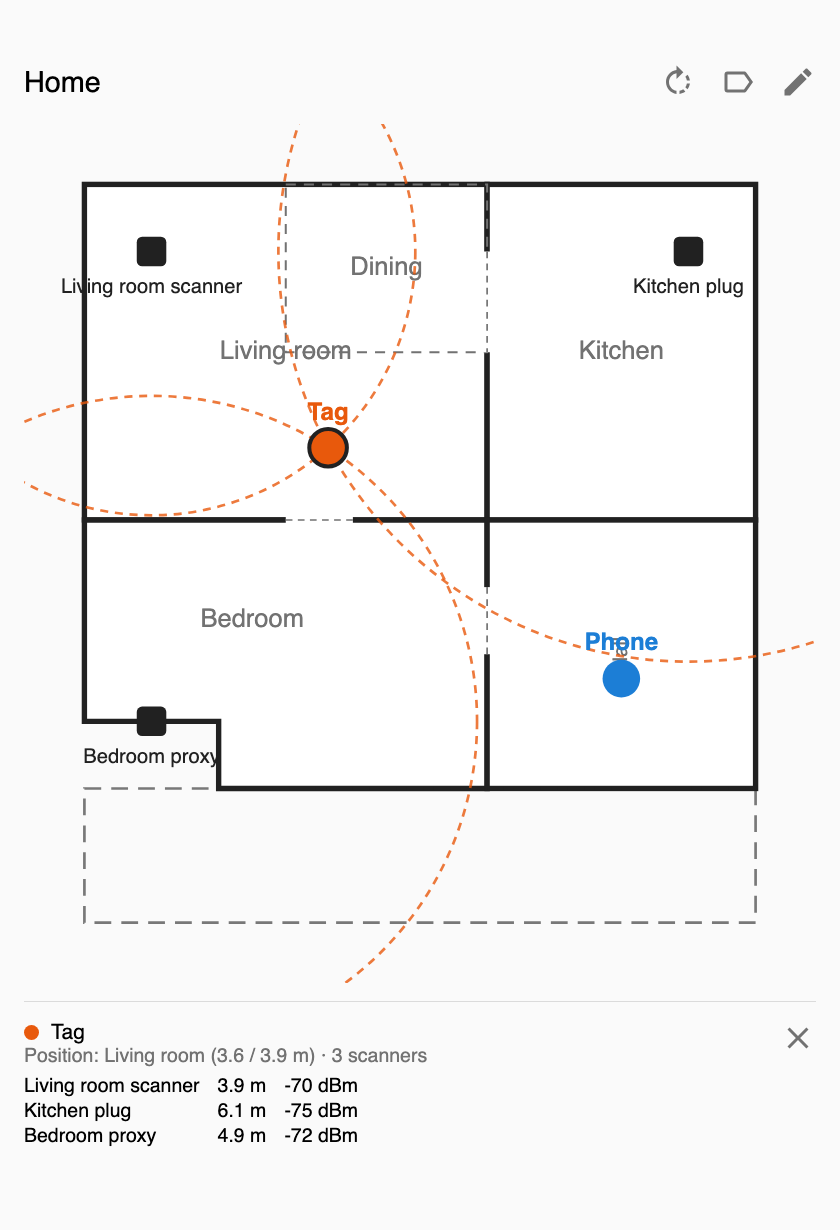
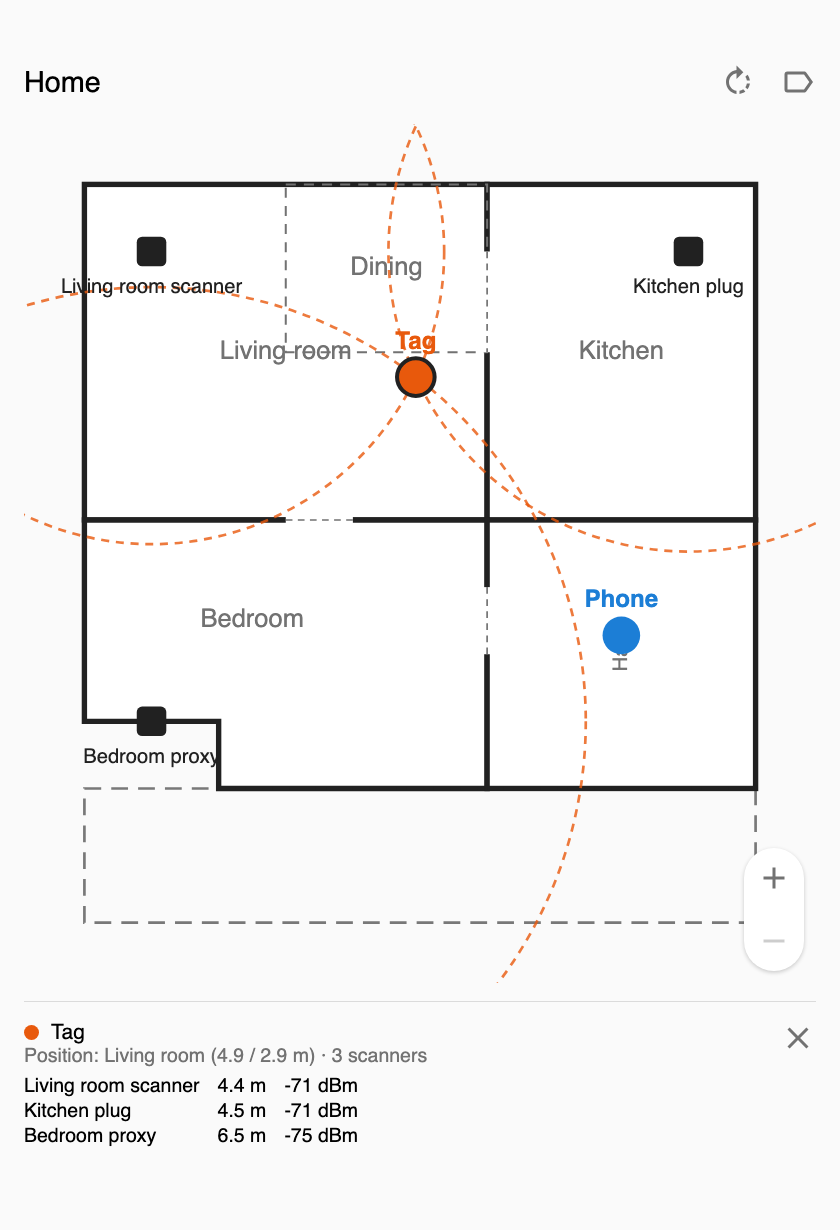
BLE Floorplan 0.11.2: the card only shows

diff --git a/custom_components/ble_floorplan/frontend/ble-floorplan-card.js b/custom_components/ble_floorplan/frontend/ble-floorplan-card.js
@@ -2,10 +2,8 @@
 // floor plan, live. The plan, the scanners and the positions come from the
 // integration over the WebSocket API; the card only draws. Tapping a tracker
 // or a scanner shows its readings, a tracker with its circles. Setting up,
-// calibrating and the timeline live in the panel BLE Floorplan; the pencil
-// takes administrators there.
+// calibrating and the timeline live in the panel BLE Floorplan in the sidebar.
 import {
-  PANEL_PATH,
   PLAN_CSS,
   PlanZoom,
   VERSION,
@@ -18,11 +16,10 @@ import {
   keep,
   loadLabels,
   loadRot,
-  navigate,
   planInfo,
   planSvg,
   texts,
-} from "./ble-floorplan-plan.js?v=0.11.1";
+} from "./ble-floorplan-plan.js?v=0.11.2";
 
 if (!customElements.get("ble-floorplan-card")) {
   const ROT_KEY = "ble-floorplan-card-rot";
@@ -84,10 +81,6 @@ if (!customElements.get("ble-floorplan-card")) {
       return {};
     }
 
-    get _admin() {
-      return !!this._hass?.user?.is_admin;
-    }
-
     async _subscribe() {
       if (this._subscribing || !this._hass) return;
       this._subscribing = true;
@@ -128,9 +121,8 @@ if (!customElements.get("ble-floorplan-card")) {
       const plan = this._plan;
       if (!plan || !plan.rooms.length) {
         this._frame = false;
-        const link = plan && this._admin ? `<button id="edit" class="text-button">${esc(t.setupPanel)}</button>` : "";
         this.shadowRoot.innerHTML = `<style>${PLAN_CSS}${this._style()}</style><ha-card><div class="head">` +
-          `<div class="title">${esc(this._config.title || t.title)}</div></div><div class="hint">${esc(this._error || t.noPlan)}</div>${link}</ha-card>`;
+          `<div class="title">${esc(this._config.title || t.title)}</div></div><div class="hint">${esc(this._error || t.noPlan)}</div></ha-card>`;
         this._bindOnce();
         return;
       }
@@ -170,8 +162,7 @@ if (!customElements.get("ble-floorplan-card")) {
             .join("")}</div>`
         : "";
       const btns = `<button id="rotate" class="icon-button" title="${esc(t.rotate)}">${icon("rotate")}</button>` +
-        `<span class="menuwrap"><button id="labels" class="icon-button${this._labelMenu ? " on" : ""}" title="${esc(t.labels)}">${icon("label")}</button>${labelMenu}</span>` +
-        (this._admin ? `<button id="edit" class="icon-button" title="${esc(t.editPlan)}">${icon("pencil")}</button>` : "");
+        `<span class="menuwrap"><button id="labels" class="icon-button${this._labelMenu ? " on" : ""}" title="${esc(t.labels)}">${icon("label")}</button>${labelMenu}</span>`;
       const btnsEl = root.getElementById("btns");
       if (btnsEl.innerHTML !== btns) btnsEl.innerHTML = btns;
       root.getElementById("info").innerHTML = sel
@@ -187,7 +178,7 @@ if (!customElements.get("ble-floorplan-card")) {
       this._bound = true;
       const root = this.shadowRoot;
       root.addEventListener("click", (e) => {
-        const el = e.target.closest?.("#rotate, #labels, #edit, #close, .scanner, .tracker");
+        const el = e.target.closest?.("#rotate, #labels, #close, .scanner, .tracker");
         if (!el) return;
         if (el.id === "rotate") {
           this._rot = (this._rot + 90) % 360;
@@ -195,10 +186,6 @@ if (!customElements.get("ble-floorplan-card")) {
           this._zoom.view = null;
         } else if (el.id === "labels") {
           this._labelMenu = !this._labelMenu;
-        } else if (el.id === "edit") {
-          const sel = this._sel;
-          navigate(sel ? `${PANEL_PATH}/${sel.kind}s?key=${encodeURIComponent(sel.key)}` : PANEL_PATH);
-          return;
         } else if (el.id === "close") {
           this._sel = null;
         } else {
@@ -228,10 +215,7 @@ if (!customElements.get("ble-floorplan-card")) {
         .map svg:not(.mdi) { max-height: 85vh; }
         .info { position: relative; margin-top: 12px; padding-top: 12px; border-top: 1px solid var(--divider-color); font-size: 13px; }
         .info .icon-button { position: absolute; right: -8px; top: 4px; }
-        .hint { color: var(--secondary-text-color); margin-top: 8px; }
-        .text-button { margin-top: 8px; margin-left: -12px; height: 36px; padding: 0 12px; border: 0; border-radius: 18px; background: none;
-          color: var(--primary-color); font: inherit; font-weight: 500; cursor: pointer; }
-        .text-button:hover { background: color-mix(in srgb, var(--primary-color) 10%, transparent); }`;
+        .hint { color: var(--secondary-text-color); margin-top: 8px; }`;
     }
   }
 

diff --git a/custom_components/ble_floorplan/frontend/ble-floorplan-plan.js b/custom_components/ble_floorplan/frontend/ble-floorplan-plan.js
@@ -2,7 +2,7 @@
 // the floor plan with its scanners and trackers, the hover tooltip and the
 // icons. The plan comes from the integration over the WebSocket API; this
 // module only turns it into SVG.
-export const VERSION = "0.11.1";
+export const VERSION = "0.11.2";
 
 export const esc = (v) =>
   String(v ?? "").replace(/[&<>"']/g, (ch) => ({ "&": "&amp;", "<": "&lt;", ">": "&gt;", '"': "&quot;", "'": "&#39;" })[ch]);
@@ -51,7 +51,6 @@ const TEXTS = {
     advancedHint: "Compute and Apply fit the offsets of the scanners and the exponent from all runs, for all trackers.",
     newRun: "New run", pickTracker: "Tracker", runAt: "At",
     addScanner: "Add scanner", addTracker: "Add tracker", trackerCount: "{n} trackers", seenBy: "{n} scanners",
-    editPlan: "Open in BLE Floorplan", setupPanel: "Set it up in BLE Floorplan",
     planSaved: "Floor plan saved.",
     tabPlan: "Floor plan", tabScanners: "Scanners", tabTrackers: "Trackers", tabCalibration: "Calibration",
     tabTimeline: "Timeline", tabSettings: "Settings", menu: "Menu",
@@ -94,7 +93,6 @@ const TEXTS = {
     advancedHint: "Berechnen und Übernehmen passen aus allen Messläufen die Offsets der Scanner und den Exponenten an, für alle Tracker.",
     newRun: "Neuer Messlauf", pickTracker: "Tracker", runAt: "Ort",
     addScanner: "Scanner hinzufügen", addTracker: "Tracker hinzufügen", trackerCount: "{n} Tracker", seenBy: "{n} Scanner",
-    editPlan: "In BLE Floorplan öffnen", setupPanel: "In BLE Floorplan einrichten",
     planSaved: "Grundriss gespeichert.",
     tabPlan: "Grundriss", tabScanners: "Scanner", tabTrackers: "Tracker", tabCalibration: "Kalibrierung",
     tabTimeline: "Verlauf", tabSettings: "Einstellungen", menu: "Menü",
@@ -591,7 +589,6 @@ const MDI = {
   fit: "M17,4H20C21.1,4 22,4.9 22,6V8H20V6H17V4M4,8V6H7V4H4C2.9,4 2,4.9 2,6V8H4M20,16V18H17V20H20C21.1,20 22,19.1 22,18V16H20M7,18H4V16H2V18C2,19.1 2.9,20 4,20H7V18M18,8H6V16H18V8M16,14H8V10H16V14Z",
   close: "M19,6.41L17.59,5L12,10.59L6.41,5L5,6.41L10.59,12L5,17.59L6.41,19L12,13.41L17.59,19L19,17.59L13.41,12L19,6.41Z",
   back: "M20,11V13H8L13.5,18.5L12.08,19.92L4.16,12L12.08,4.08L13.5,5.5L8,11H20Z",
-  pencil: "M20.71,7.04C21.1,6.65 21.1,6 20.71,5.63L18.37,3.29C18,2.9 17.35,2.9 16.96,3.29L15.12,5.12L18.87,8.87M3,17.25V21H6.75L17.81,9.93L14.06,6.18L3,17.25Z",
   plus: "M19,13H13V19H11V13H5V11H11V5H13V11H19V13Z",
   delete: "M19,4H15.5L14.5,3H9.5L8.5,4H5V6H19M6,19A2,2 0 0,0 8,21H16A2,2 0 0,0 18,19V7H6V19Z",
   play: "M8,5.14V19.14L19,12.14L8,5.14Z",

diff --git a/custom_components/ble_floorplan/frontend/ble-floorplan-panel.js b/custom_components/ble_floorplan/frontend/ble-floorplan-panel.js
@@ -30,7 +30,7 @@ import {
   texts,
   toPlan,
   trackerColor,
-} from "./ble-floorplan-plan.js?v=0.11.1";
+} from "./ble-floorplan-plan.js?v=0.11.2";
 
 if (!customElements.get("ble-floorplan-panel")) {
   const ROT_KEY = "ble-floorplan-panel-rot";

diff --git a/tests/test_card.py b/tests/test_card.py
@@ -34,12 +34,13 @@ def test_imports_carry_the_version() -> None:
             assert target == f"./ble-floorplan-plan.js?v={version}", (name, target)
 
 
-def test_card_shows_and_links() -> None:
-    """The card draws the live plan and leads administrators to the panel."""
+def test_card_only_shows() -> None:
+    """The card draws the live plan; it neither sets up nor leads to the panel."""
     card = (FRONTEND / "ble-floorplan-card.js").read_text(encoding="utf-8")
     assert 'customElements.define("ble-floorplan-card"' in card
     assert '"ble_floorplan/subscribe"' in card
-    assert "navigate(" in card
+    assert "navigate(" not in card
+    assert "is_admin" not in card
     # Setting up, calibrating and the timeline are the panel's
     assert '"ble_floorplan/set_' not in card
     assert '"ble_floorplan/calibration/' not in card

diff --git a/README.md b/README.md
@@ -69,7 +69,7 @@ A scanner or a tracker is taken off the plan with **Remove** in its details.
 
 ## The card
 
-The card shows the plan with the trackers live, for every user. Pinch with two fingers, Ctrl and the mouse wheel, a trackpad pinch or the buttons in the corner zoom it; zoomed in, drag to move it. Hovering a scanner or a tracker shows its distances and signal strengths; tapping it shows them below the plan, a tracker with its distance circles. The buttons rotate the plan and switch the labels, per browser; administrators get a pencil that opens the page, at the scanner or tracker tapped.
+The card shows the plan with the trackers live, for every user. Pinch with two fingers, Ctrl and the mouse wheel, a trackpad pinch or the buttons in the corner zoom it; zoomed in, drag to move it. Hovering a scanner or a tracker shows its distances and signal strengths; tapping it shows them below the plan, a tracker with its distance circles. The buttons rotate the plan and switch the labels, per browser. Nothing on the card sets anything up: that is the page in the sidebar.
 
 ![The card](https://raw.githubusercontent.com/n-schilling/ha-ble-floorplan/main/docs/images/card.png)
 

diff --git a/CHANGELOG.md b/CHANGELOG.md
@@ -2,6 +2,12 @@
 
 All notable changes are listed here. The format follows [Keep a Changelog](https://keepachangelog.com/en/1.1.0/), versions follow [Semantic Versioning](https://semver.org/).
 
+## [0.11.2] - 2026-11-01
+
+### Removed
+
+- The pencil on the card and the button that led from an empty card to the page: the card only shows, for administrators as well; the page is in the sidebar.
+
 ## [0.11.1] - 2026-11-01
 
 ### Added
